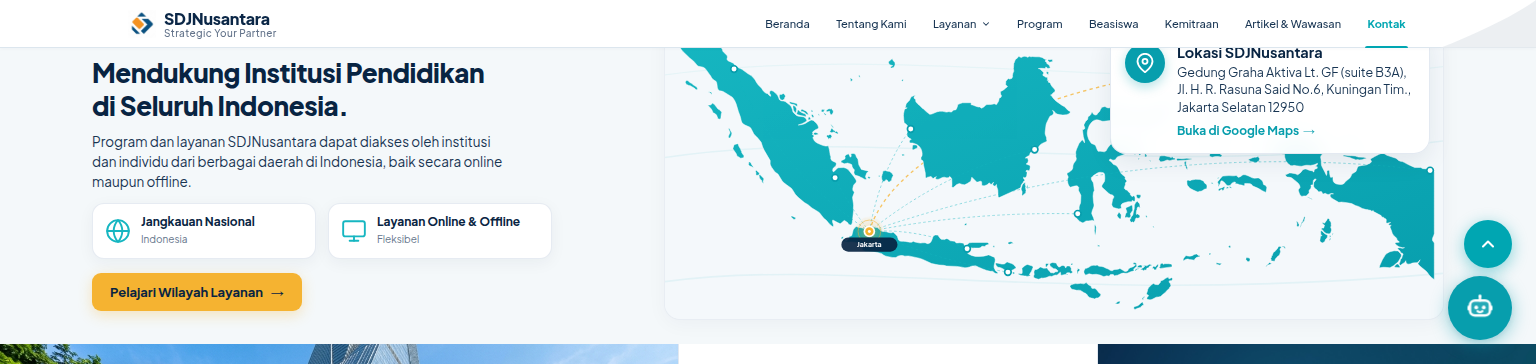
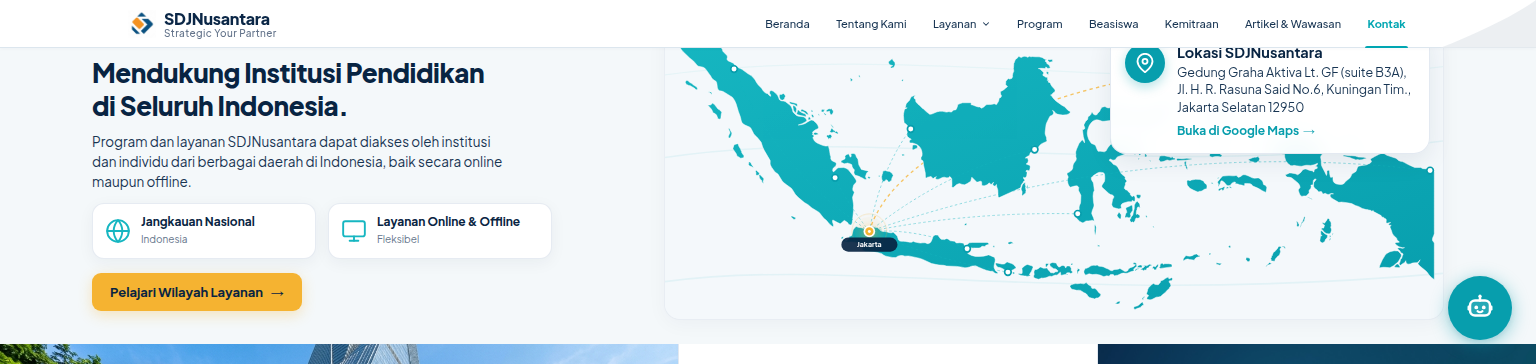
footer: hapus floating button panah ke atas pada program, beasiswa, kemitraan, artikel, dan kontak

Changed region(s): [[0.9375, 0.6044, 1.0, 0.7555], [0.9375, 0.8159, 0.9688, 0.8764]]

diff --git a/src/lib/components/layout/Footer.svelte b/src/lib/components/layout/Footer.svelte
@@ -140,14 +140,6 @@
 			</div>
 		{/if}
 
-		<!-- Floating Back-to-Top Button for Program, Beasiswa, Kemitraan, Artikel & Kontak per Mockup (Disembunyikan saat chat terbuka) -->
-		{#if (variant === 'program' || variant === 'beasiswa' || variant === 'kemitraan' || variant === 'artikel' || variant === 'kontak') && !chatStore.isOpen}
-			<button class="back-to-top-btn floating-btt-program" onclick={scrollToTop} aria-label="Kembali ke atas">
-				<svg width="20" height="20" viewBox="0 0 24 24" fill="none" stroke="currentColor" stroke-width="2.5" stroke-linecap="round" stroke-linejoin="round">
-					<polyline points="18 15 12 9 6 15"></polyline>
-				</svg>
-			</button>
-		{/if}
 	</div>
 </footer>
 
@@ -635,50 +627,7 @@
 		align-items: flex-start;
 	}
 
-	.footer.variant-program .floating-btt-program,
-	.footer.variant-beasiswa .floating-btt-program,
-	.footer.variant-kemitraan .floating-btt-program,
-	.footer.variant-artikel .floating-btt-program,
-	.footer.variant-kontak .floating-btt-program {
-		position: fixed;
-		bottom: 96px;
-		right: 24px;
-		width: 48px;
-		height: 48px;
-		border-radius: 50%;
-		background: #00A6B2;
-		color: #FFFFFF;
-		box-shadow: 0 4px 16px rgba(0, 166, 178, 0.45);
-		z-index: 99;
-		display: flex;
-		align-items: center;
-		justify-content: center;
-		border: none;
-		cursor: pointer;
-		transition: all 0.2s ease;
-	}
 
-	.footer.variant-program .floating-btt-program:hover,
-	.footer.variant-beasiswa .floating-btt-program:hover,
-	.footer.variant-kemitraan .floating-btt-program:hover,
-	.footer.variant-artikel .floating-btt-program:hover,
-	.footer.variant-kontak .floating-btt-program:hover {
-		background: #079EAD;
-		transform: translateY(-2px);
-	}
-
-	@media (max-width: 640px) {
-		.footer.variant-program .floating-btt-program,
-		.footer.variant-beasiswa .floating-btt-program,
-		.footer.variant-kemitraan .floating-btt-program,
-		.footer.variant-artikel .floating-btt-program,
-		.footer.variant-kontak .floating-btt-program {
-			bottom: calc(84px + env(safe-area-inset-bottom, 0px));
-			right: 16px;
-			width: 44px;
-			height: 44px;
-		}
-	}
 
 	.tagline-tentang {
 		font-size: 8px !important;
